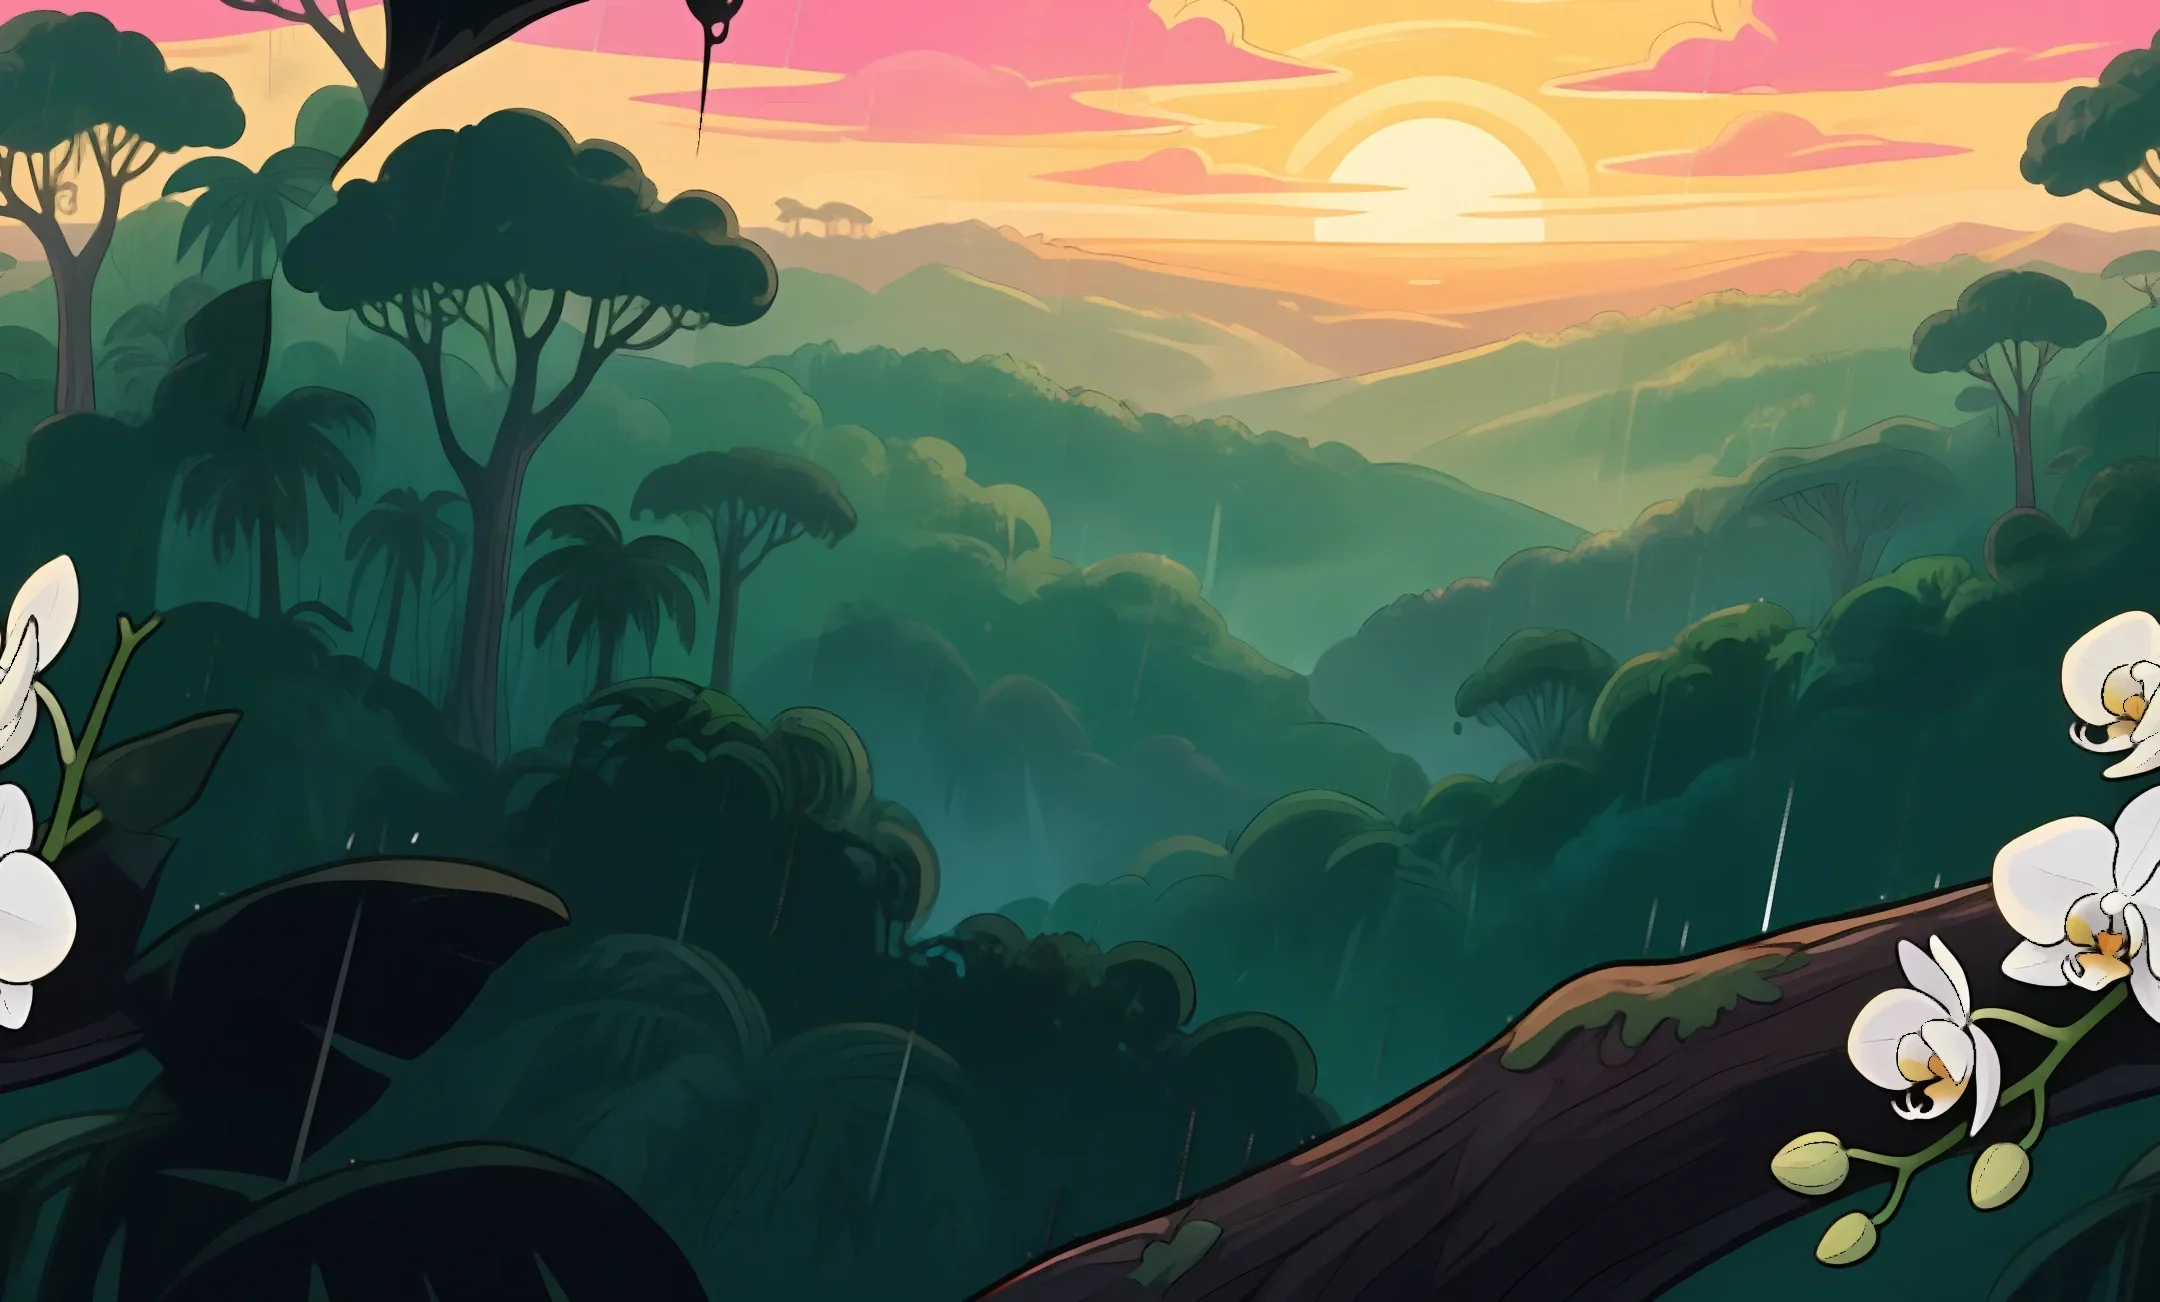
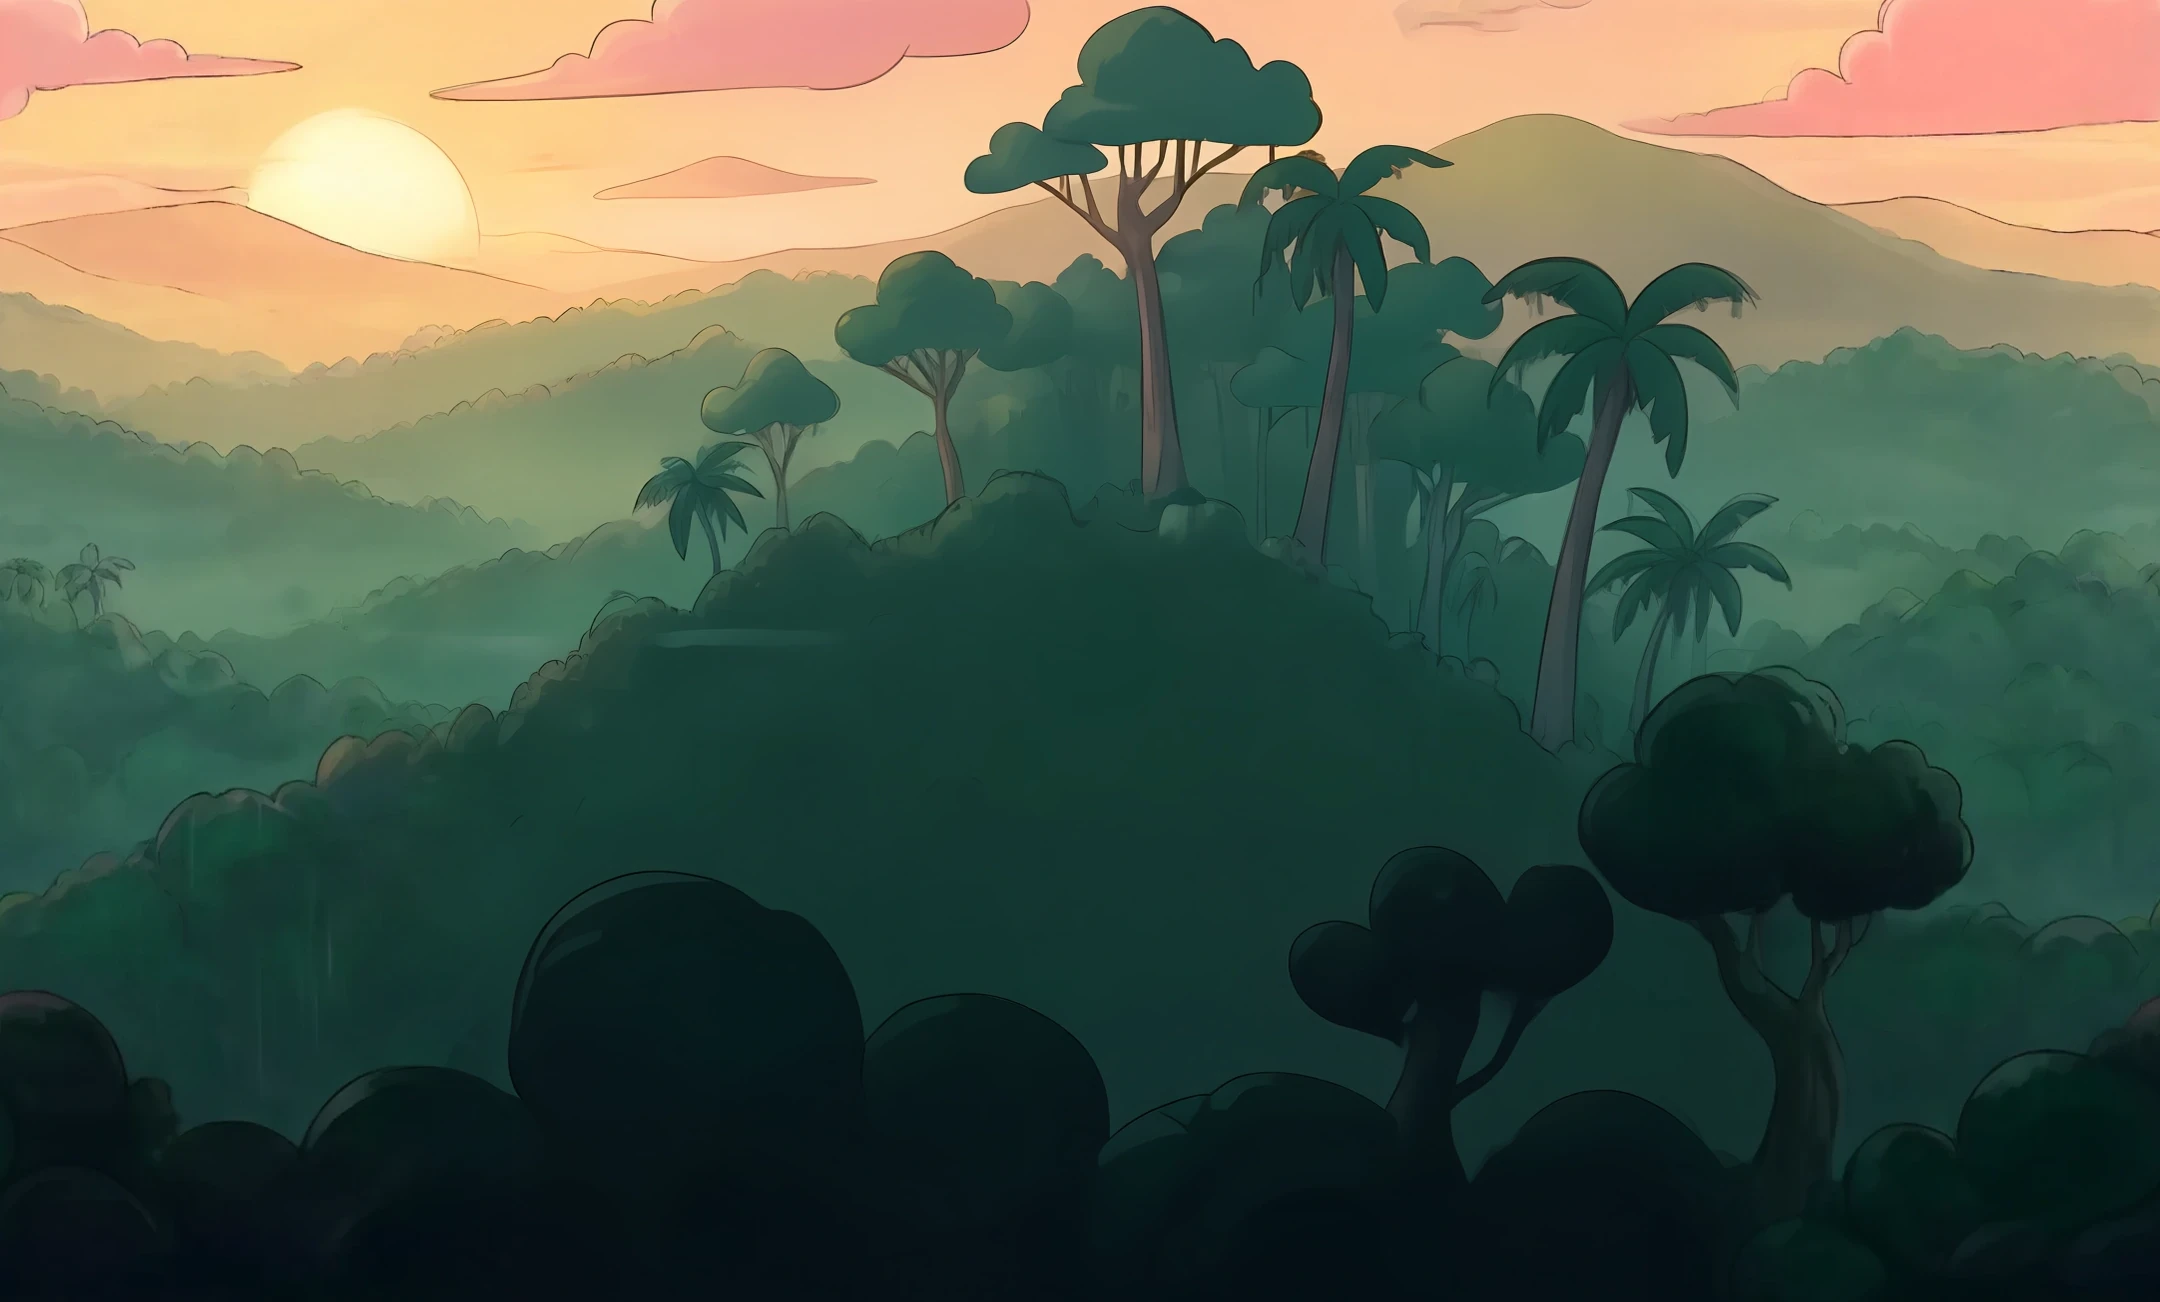
F13: 1-3 plays its own sunrise again, on ART-W1B's repainted far strip (the lead passed it): src/assets/backdrops/w1sunrise-far.webp is the repaint byte for byte (no orchids, log or branch; the wrap join 1.69 vs 0.69 between columns, was 12.9), stageBackdrops.ts 1-3 -> w1sunrise. stageBackdrops.test
Claude-Session: https://claude.ai/code/session_01FhBbYLor45ufvfpo74eKDv

diff --git a/src/game/stageBackdrops.test.ts b/src/game/stageBackdrops.test.ts
@@ -2,6 +2,7 @@
 import test from 'node:test';
 import assert from 'node:assert/strict';
 import fs from 'node:fs';
+import { createHash } from 'node:crypto';
 import { FAR_BY_STAGE, FAR_ONLY, stageBackdropStem } from './stageBackdrops.ts';
 import { backdropStem } from './paintedBackdrops.ts';
 
@@ -32,7 +33,7 @@ test('backdrops: every world alternates three or four painted sets, its early li
 });
 
 test('backdrops: each new far strip is there at the far layers\' height (1302, native resolution: X-16; seamless: VI-4), well under the size limit; and the sinkhole is Matt\'s redo', () => {
-  assert.deepEqual([...FAR_ONLY].sort(), ['w10dusk', 'w10gale', 'w10storm', 'w1b', 'w1kapok', 'w1rain', 'w1sun2', 'w2evening', 'w2mist', 'w2rapids', 'w3cavern', 'w3crystal', 'w3sinkhole', 'w4mist', 'w4storm', 'w4terraces', 'w6dawn', 'w6dusk', 'w6moon', 'w7court', 'w7dawn', 'w7dusk', 'w8dawn', 'w8night', 'w8sunset', 'w9ash', 'w9dawn', 'w9night']);
+  assert.deepEqual([...FAR_ONLY].sort(), ['w10dusk', 'w10gale', 'w10storm', 'w1b', 'w1kapok', 'w1rain', 'w1sun2', 'w1sunrise', 'w2evening', 'w2mist', 'w2rapids', 'w3cavern', 'w3crystal', 'w3sinkhole', 'w4mist', 'w4storm', 'w4terraces', 'w6dawn', 'w6dusk', 'w6moon', 'w7court', 'w7dawn', 'w7dusk', 'w8dawn', 'w8night', 'w8sunset', 'w9ash', 'w9dawn', 'w9night']);
   for (const stem of FAR_ONLY) {
     const f = new URL(`../assets/backdrops/${stem}-far.webp`, import.meta.url);
     const buf = fs.readFileSync(f);
@@ -50,9 +51,11 @@ test('backdrops: each new far strip is there at the far layers\' height (1302, n
   }
 });
 
-test('no stage plays in w1sunrise while its far strip has the edge orchids that meet where it wraps (F13, 11-12: one big white shape behind 1-3\'s route)', () => {
-  // (1-1 left it on 11-05 for w1sun2, repainted with no orchids and a clean join; 1-3 tonight. A repaint of w1sunrise's far without
-  //  them, judged by the lead, is what lets a stage back onto it: change this test with that repaint)
-  assert.deepEqual(Object.entries(FAR_BY_STAGE).flatMap(([w, m]) => Object.entries(m).filter(([, set]) => set === 'w1sunrise').map(([s]) => `${w}-${s}`)), []);
-  assert.equal(stageBackdropStem('1-3'), stageBackdropStem('1-1'), "1-3's sky is 1-1's sunrise tonight");
+test("1-3 plays its own sunrise again, on the far strip REPAINTED without the edge orchids that met where it wraps (F13's stills, 11-12: one big white shape behind 1-3's route)", () => {
+  // (the repaint is ART-W1B's, passed by the lead: no orchids, log or branch; its wrap join 1.69 against 0.69 between any two columns,
+  //  the old far's 12.9, measured by tools/art/sky13/seam.py. This pins THAT file: the orchid strip cannot come back unseen; a new
+  //  repaint changes the pin with its own join measure. No image decoder is in the game's tests, so the join is measured there)
+  assert.equal(stageBackdropStem('1-3'), 'w1sunrise');
+  const buf = fs.readFileSync(new URL('../assets/backdrops/w1sunrise-far.webp', import.meta.url));
+  assert.equal(createHash('sha256').update(buf).digest('hex').slice(0, 16), '1ee64942f0d2301d', 'w1sunrise-far.webp is not the repaint the lead passed');
 });

diff --git a/src/game/stageBackdrops.ts b/src/game/stageBackdrops.ts
@@ -18,10 +18,10 @@ export const FAR_BY_STAGE: Record<number, Record<number, string>> = {
   // Each world still follows its story light: its early mood first, its late mood last.)
   // (1-6: w1b, the world's own far and sky with a second painted middle strip, so 1-4 and 1-6 don't show the same three trees)
   // (1-1: w1sun2, its own sunrise repainted with no orchids and a clean join (art-1-1-sunrise-2, 11-05: the old w1sunrise far's
-  // orchids, its middle strip's cut trunk). 1-3 kept w1sunrise until its own stills check: there (F13, 11-12) its far's edge orchids
-  // met where the strip wraps and stood behind the route as one big white shape, so tonight 1-3 is on w1sun2 too, until a w1sunrise
-  // far repainted without them passes the lead's look (ART-W1, the lead 11-12 2:10 PM)
-  1: { 1: 'w1sun2', 2: 'w1rain', 3: 'w1sun2', 5: 'w1rain', 6: 'w1b', 7: 'w1kapok', 8: 'w1rain', 9: 'w1kapok' },
+  // orchids, its middle strip's cut trunk). 1-3 plays w1sunrise, its far REPAINTED (ART-W1B, 11-12; the lead passed it): its edge
+  // orchids had met where the strip wraps and stood behind 1-3's route as one big white shape (F13's stills); the repaint has no
+  // orchids, log or branch, and its join is as smooth as any two columns (1.69 vs 0.69; the old far 12.9: tools/art/sky13/seam.py)
+  1: { 1: 'w1sun2', 2: 'w1rain', 3: 'w1sunrise', 5: 'w1rain', 6: 'w1b', 7: 'w1kapok', 8: 'w1rain', 9: 'w1kapok' },
   2: { 1: 'w2mist', 3: 'w2mist', 4: 'w2rapids', 6: 'w2rapids', 7: 'w2evening', 8: 'w2rapids', 9: 'w2evening' },
   3: { 2: 'w3crystal', 4: 'w3sinkhole', 5: 'w3crystal', 6: 'w3sinkhole', 7: 'w3cavern', 8: 'w3crystal', 9: 'w3cavern' },
   4: { 1: 'w4terraces', 2: 'w4storm', 3: 'w4terraces', 5: 'w4storm', 7: 'w4mist', 8: 'w4storm', 9: 'w4mist' },

diff --git a/reference/design/1-3.md b/reference/design/1-3.md
@@ -27,7 +27,7 @@ reward job: only its own piece fills it, outside the content mix).
 | 10 | Rest (R) | A rest | Rests | Reward |
 | 11 | **The two snakes on a log** (H; F13, the lead's OK) | A short low log, two snakes DOZING at its two ends, ONE load hung between them; the vine on the ledge before; a flag on its last ledge | One punch: the load lands in the gap, touching neither, and BOTH glide off | A laugh, "two for one!": the idea paying off big, a breath before the last test |
 | 12 | **The finale** (C) | A trapped log, its snake awake; then (Normal) the level's one real jump, a 90-110 px hop over a soft dip, to a bare log with an awake snake. Easy: flat, and Easy's cut usually leaves that last log empty | Traps the first, walks the second down | Everything learned, in one breath |
-| 13 | Leave (E) | A short ROPE over a mossy hollow a tap can climb out of (60 px), petals under it, then the totem. (The rope's posts are made things: it becomes a vine between two living trunks, F13 with ART-W1B, the lead 11-12) | Walks down through the hollow and out (the rope is for the day he comes back with Shimmy Rope, which clearing 1-3 teaches) | Kind: every snake is in a lower tree, grumbling |
+| 13 | Leave (E) | A short VINE between two living trees over a mossy hollow a tap can climb out of (60 px), petals under it, then the totem (a rope between posts is a made thing: the lead 11-12. ART-W1B's painted trunk stands on each bank, the vine tied in its arm's leaves: `look: 'vine'` on the exit's rope, F13) | Walks down through the hollow and out (the rope is for the day he comes back with Shimmy Rope, which clearing 1-3 teaches) | Kind: every snake is in a lower tree, grumbling |
 Built numbers (the same 14 beats on every roll, both settings): Normal 17 snakes (7 asleep), 12 traps; Easy 15, ALL 12 traps. The bots
 (castBots, seeds 1-40, F13 11-12): every tier at or over 2:05 on both settings; the fastest, the kid whose thumb never lets go, 125.6 s
 on Easy (it was 116.2 before the two snakes on a log and the stair's and perch's breath at 4 ledges like every other beat).
@@ -60,14 +60,15 @@ on Easy (it was 116.2 before the two snakes on a log and the stair's and perch's
 
 ## How it reads on a phone (measured on stills of the real game, reference/qa-reports/W1C/stills/)
 Upright: about 425 px of stage, 270 px past where he stands at a vine: its hive and the snake's whole patrol are on that screen.
-The sky is 1-1's sunrise (w1sun2) until w1sunrise's far strip is repainted without the orchids at its edges (they met where it wraps
-and stood behind the route as one big white shape; ART-W1B, the lead 11-12).
+The sky is 1-3's own sunrise (w1sunrise), its far strip repainted by ART-W1B without the orchids at its edges (they met where it
+wraps and stood behind the route as one big white shape; the lead passed the repaint 11-12; held by stageBackdrops.test).
 Sideways: about 150 px over his head is under the goal sign; loads hang 100 px over a log 24 px thick, so hive, stone and snake are
 clear of it (the trap's leaf clumps brush its rim: for the painted art, told to ART-W1). Every log is the LOW painted log: World 1
 draws a block a full step thick as a green hedge, and one over 400 px long as two pieces with a seam.
 
 ## Not yet at the bar (plainly)
-The trap art is a code-drawn STAND-IN (`reference/art/W1-TRAPS-LIST.md`, with ART-W1). The rope has wooden posts (a made thing: it
-becomes a vine between trunks when ART-W1B's long liana and living anchors are painted). Its own sky (the w1sunrise repaint). An AWAKE snake can be right where its load lands (it lifts off as it lands; a sleeper never is).
+The trap art is ART-W1B's painted pieces (w1-traps.webp, castArt.ts; merged from t-w1-art2), and the way out is a vine between two
+living trees (F13, 2ab09f0d). World 1's other ropes (1-4, 1-5, 1-7, 1-9) still hang between World 2's posts (the lead's call: one
+`look: 'vine'` a section, each with its own stills). Its middle strip (w1sunrise-mid) still has ART-1-1's cut trunk (ART-W1B named it). An AWAKE snake can be right where its load lands (it lifts off as it lands; a sleeper never is).
 1-3 is judged on its own flown rows (P13); its seed list is P13's, recorded on the final head. No drop-trap page
 in the moves journal (new player words). funcheck's "nothing bites" is accepted by the lead (this level's risk is the strike).

diff --git a/reference/design/LEVEL-BAR.md b/reference/design/LEVEL-BAR.md
@@ -73,6 +73,9 @@ is scored 0 (missing), 1 (there, rough), 2 (at the bar), with the proof named. *
 | A rule for one sleeper (its load 10 px off the middle) breaking a pair: the load landing on the second coil | numbers from the real roll, then stills | `armedTraps` re-centres a load a second sleeper shares; `library13.test` "the load between coils, 50 px or more from each" (planted) |
 | A sky strip's edge art meeting where it wraps: two half orchids made one white "ghost" behind the route | the lead, on P13's stills; found by a draw-call probe | `stageBackdrops.test`: no stage on w1sunrise until it is repainted. NOT a general check yet: a strip's two edges are not compared |
 | A designed level quiet for 4-11 s at a time: rests of long flat banks, 24-40 px steps and 25 px logs (walked, never hopped), a stair's way down | P13's seed-list dry run (QUIET_MAX 4 s) | `library13.test` holds the list's quiet line on the game's own roll (planted: the old stair, 10.5 s) |
+| A made thing in a world that has none: World 2's wooden posts and rope at 1-3's way out | the lead, on stills | a rope's look is DATA (`look: 'vine'` on its section's rope place, Rope.look): ART-W1B's vine tied in two living trees; `library13.test` holds it on every seed, both settings; planted. World 1's other ropes (1-4, 1-5, 1-7, 1-9) named, the lead's call |
+| A painted piece drawn out from a rope's end standing off its bank (a tree's foot over the hollow, or in front of the totem) | measuring the trunk against the exit's banks before drawing it | `library13.test`: each tree's whole foot on its own bank, at about its usual size, the totem 40 px clear of the far tree; planted (a short bank, a tree half again too big) |
+| A section out of a stage's pool with no reason named (a designed level's own pieces read as "refused: ") | the CI tools test, red since W1C's d03487f7 | `tools/engine/library.ts` poolReport names another stage's own piece; `library.test` fails on any section out with no reason |
 
 ## Scoring 1-3 as it stands today (t-w1-creatures, 11-12 afternoon, honest)
 A1 2, A2 2 (one graph, one piece a beat, held on every seed), A3 2 (every piece is its own: no library section in its pool),
